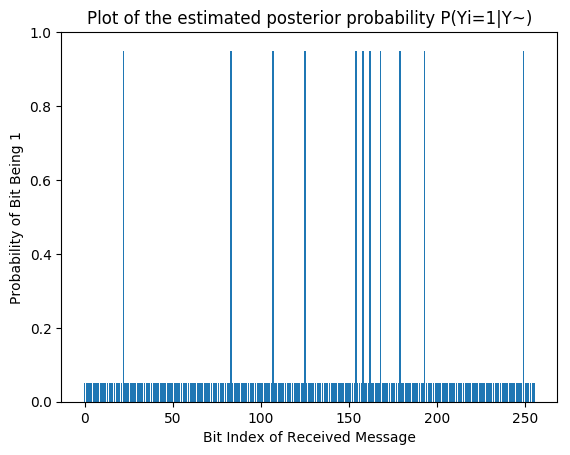
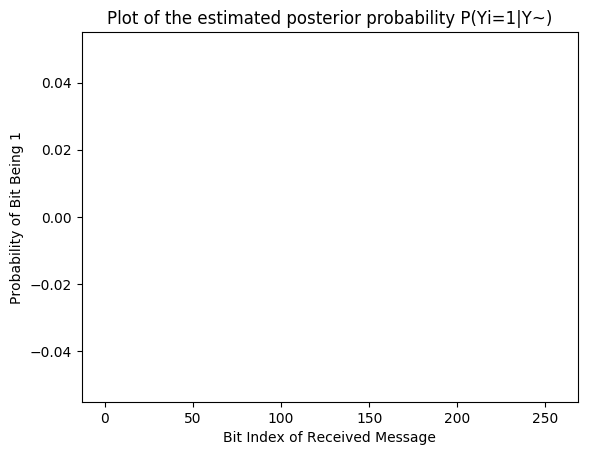
Finished code

diff --git a/hw3/hw3.tex b/hw3/hw3.tex
@@ -265,9 +265,53 @@ In this case, we note that the maximum is actually achieved for $x_2 = 1$ as the
 \label{fig:conditional_probability_message}
 \end{figure}
 
-In general, the MMAP does not necessarily give us the right answer. We note that in this case, MMAP would again not give us the correct solution since we can verify that the MMAP solution is actually not even a valid codeword (our model assigns it probability $0$).
+It's not visible, but we essentially have a straight line along $0$. In general, the MMAP does not necessarily give us the right answer. We note that in this case, MMAP does give us the correct answer since it seems that with very high likelihood we set every bit to $0$.
 
-\item 
+\item We repeat the experiment from above for 10 random channel noise realizations. The results are showing in Figure \ref{fig:low_epsilon}. We note that it seems as if BP is typically reliable, but if enough bits are different, then we will not converge to the true value (for example, we had one trial were $20$ bits were different, and it seems in this case BP did not find the correct marginal probabilites). The reason for this is likely due to the feedback loop which finds a local optimal that is not near the global optimal.
+
+\begin{figure}[!h]
+\centering
+\includegraphics{programming/5d_epsilon=6.png}
+\caption{Hamming Distance by Iteration Over 10 Values with $\epsilon = 0.06$.}
+\label{fig:low_epsilon}
+\end{figure}
+
+\item We repeat the above for higher error probabilities. We note that the higher error probabilities lead to more frequent scenarios where Loopy BP does not perform well. This further supports our hypothesis that the Loopy BP is good at finding solutions when there is not a large amount of noise in the original realization of the value. See Figure \ref{fig:middle_epsilon} and Figure \ref{fig:high_epsilon} for the plots.
+
+\begin{figure}[!h]
+\centering
+\includegraphics{programming/5d_epsilon=8.png}
+\caption{Hamming Distance by Iteration Over 10 Values with $\epsilon = 0.08$.}
+\label{fig:middle_epsilon}
+\end{figure}
+
+\begin{figure}[!h]
+\centering
+\includegraphics{programming/5d_epsilon=10.png}
+\caption{Hamming Distance by Iteration Over 10 Values with $\epsilon = 0.10$.}
+\label{fig:high_epsilon}
+\end{figure}
+
+
+\item We use our above decoder to show the result replicating MacKay's Fig 47.5. The results are shown in Figure \ref{fig:imaga_reconstruction}.
+
+\begin{figure}[!h]
+\centering
+\includegraphics{programming/5fg_error=6.png}
+\caption{Image Reconstruction with $\epsilon = 0.06$. We plot for 0, 1, 2, 3, 5, 10, 20 ,and 30 iterations}
+\label{fig:imaga_reconstruction}
+\end{figure}
+
+
+\item We repeat the above experiment but with a higher value of $\epsilon=0.10$. We can qualitatively note that our loopy BP algorithm did not converge as well with this amount of noise. See Figure for reference.
+
+\begin{figure}[!h]
+\centering
+\includegraphics{programming/5fg_error=10.png}
+\caption{Image Reconstruction with $\epsilon = 0.10$. We plot for 0, 1, 2, 3, 5, 10, 20 ,and 30 iterations}
+\label{fig:imaga_reconstruction}
+\end{figure}
+
 \end{enumerate}
 
 

diff --git a/hw3/programming/do_pa3.py b/hw3/programming/do_pa3.py
@@ -176,7 +176,6 @@ def do_part_c():
     plt.title("Plot of the estimated posterior probability P(Yi=1|Y~)")
     plt.ylabel("Probability of Bit Being 1")
     plt.xlabel("Bit Index of Received Message")
-    plt.ylim((0.0, 1.0))
     plt.bar(range(len(G.var)), values)
     plt.savefig('5c', bbox_inches='tight')
     plt.show()
@@ -203,10 +202,11 @@ def do_part_de(numTrials, error, iterations=50):
     y = encodeMessage(x, G)
 
     plt.figure()
-    plt.title("Plot of the Hamming Distance Between MMAP and True Over 10 Trials")
+    plt.title("Plot of the Hamming Distance Between MMAP and True Over 10 "
+              "Trials")
     plt.ylabel("Hamming Distance")
     plt.xlabel("Iteration Number of Loopy Belief Propagation")
-    for trial in range(1):
+    for trial in range(10):
         ##############################################################
         # To do: your code starts here
         yTilde = applyChannelNoise(y, error)
@@ -216,7 +216,6 @@ def do_part_de(numTrials, error, iterations=50):
             G.runParallelLoopyBP(1)
             if it % 10 == 0 and it > 0:
                 print("Finished iteration %s of Loopy" % it)
-            print(G.estimateMarginalProbability(1))
             MMAP = G.getMarginalMAP()
             hamming_distance = np.sum(MMAP)
             values.append(hamming_distance)
@@ -242,28 +241,38 @@ def do_part_fg(error):
     # previous parts.
     original_shape = img.shape
     N = G.shape[1]
-    x = img.flatten()
+    x = img.reshape((N, 1))
     y = encodeMessage(x, G)
     yTilde = applyChannelNoise(y, error)
     G = constructFactorGraph(yTilde, H, error)
     plot_iterations = [0, 1, 2, 3, 5, 10, 20, 30]
+    plt.figure()
     for it in range(31):
         G.runParallelLoopyBP(1)
         if it in plot_iterations:
-            s
+            MMAP = G.getMarginalMAP()
+            imgSampled = MMAP[:N].reshape(original_shape)
+            i = plot_iterations.index(it)
+            plt.subplot(1, 8, i + 1)
+            plt.imshow(imgSampled)
+            plt.title("Sample at iteration: " + str(it))
+    plt.tight_layout()
+    plt.savefig('5fg_error=' + str(int(100*error)), bbox_inches='tight')
+    plt.show()
+    plt.close()
 
 ################################################################
 
 # print('Doing part (a): Should see 0.0, 0.0, >0.0')
 # do_part_a()
 # print('Doing part (c)')
-do_part_c()
-print('Doing part (d)')
-#do_part_de(10, 0.06)
-print('Doing part (e)')
-#do_part_de(10, 0.08)
-#do_part_de(10, 0.10)
+# do_part_c()
+# print('Doing part (d)')
+# do_part_de(10, 0.06)
+# print('Doing part (e)')
+# do_part_de(10, 0.08)
+# do_part_de(10, 0.10)
 print('Doing part (f)')
-# do_part_fg(0.06)
+do_part_fg(0.06)
 print('Doing part (g)')
-# do_part_fg(0.10)
+do_part_fg(0.10)
